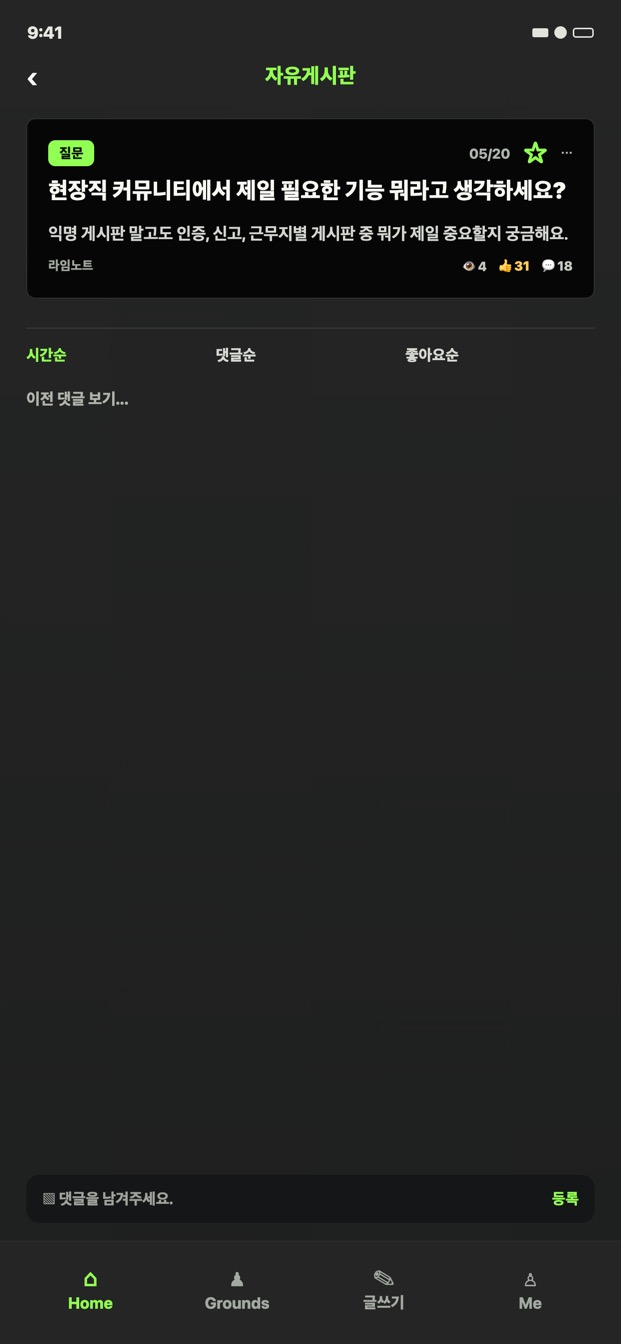
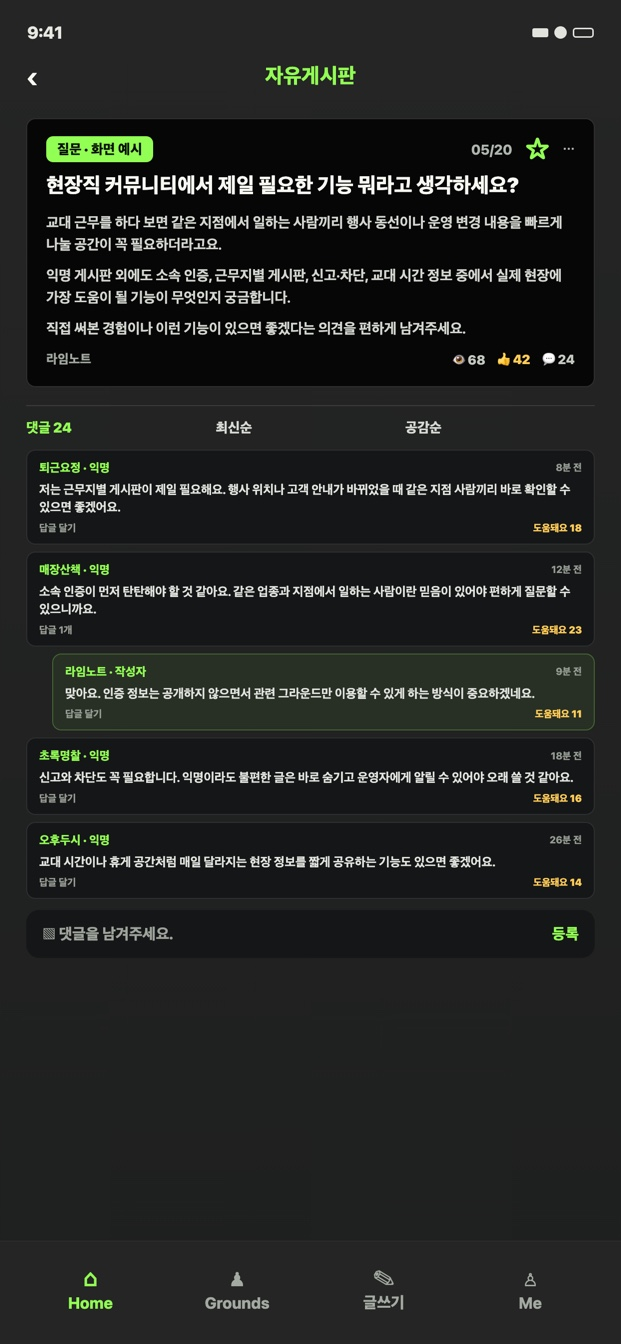
Enrich landing post detail demo

diff --git a/download/index.html b/download/index.html
@@ -222,7 +222,7 @@
               <figcaption><strong>그라운드</strong><span>소속별 맞춤 공간</span></figcaption>
             </figure>
             <figure>
-              <img src="./assets/screen-post.jpg" alt="익명 게시글 상세 화면" width="621" height="1344" loading="lazy" />
+              <img src="./assets/screen-post.jpg?v=20260727-detail" alt="익명 게시글과 댓글이 이어지는 상세 화면" width="621" height="1344" loading="lazy" />
               <figcaption><strong>익명 소통</strong><span>게시글과 댓글로 정보 교환</span></figcaption>
             </figure>
             <figure>
